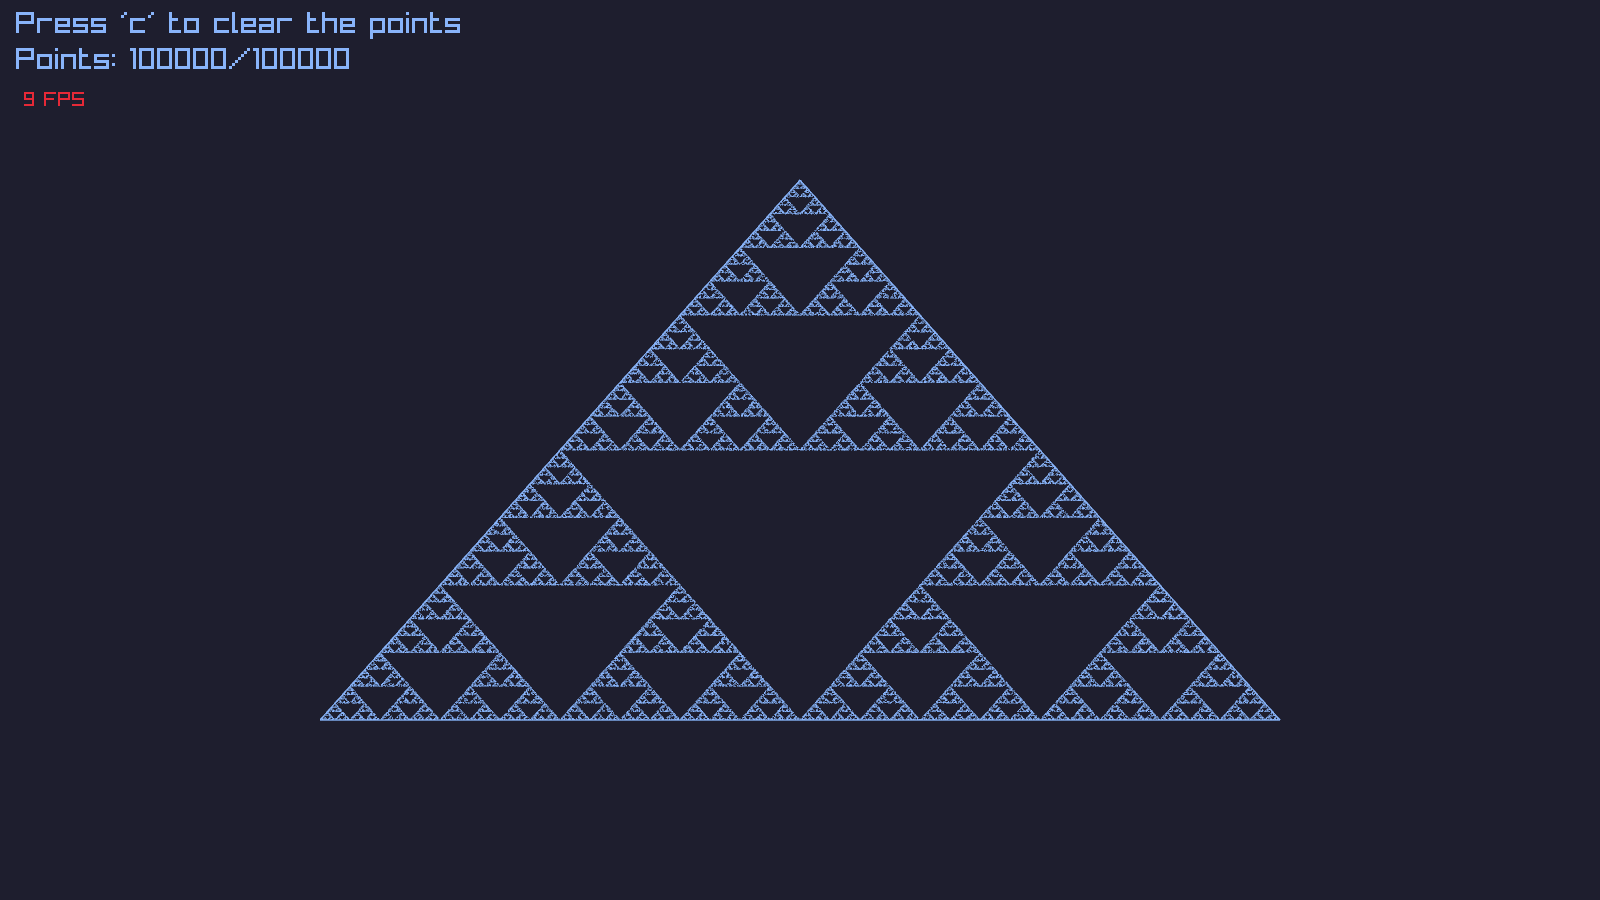
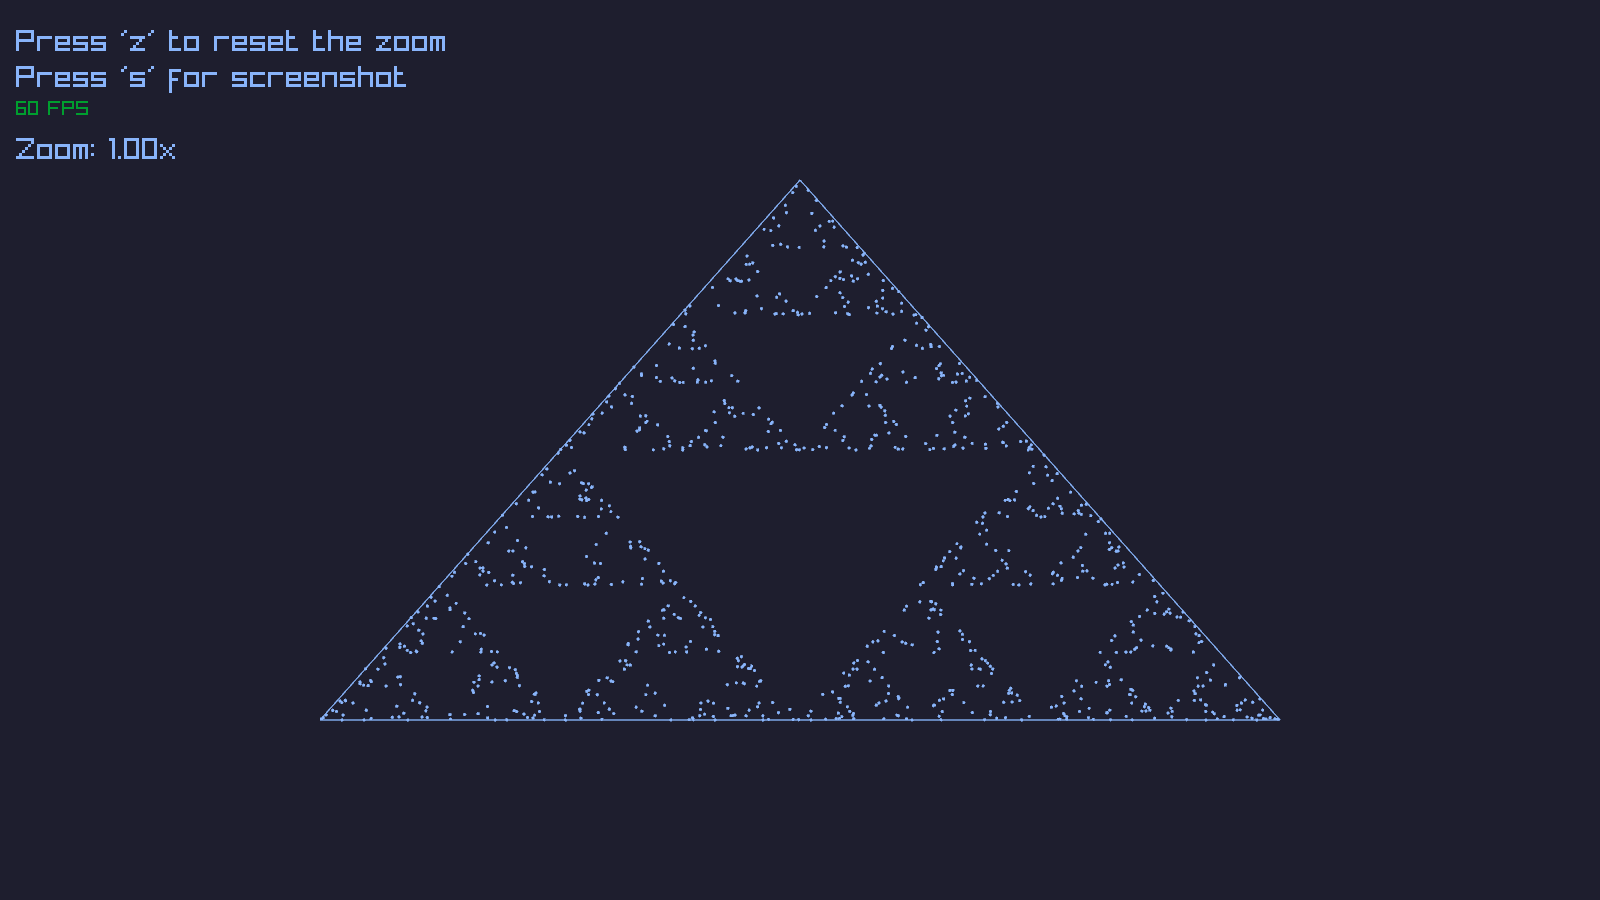
Don't store the points

Changed region(s): [[0.1875, 0.2178, 0.8125, 0.8089], [0.0, 0.0, 0.2812, 0.1244], [0.0, 0.1556, 0.125, 0.1867]]

diff --git a/main.c b/main.c
@@ -2,7 +2,6 @@
 #include <raymath.h>
 #include <time.h>
 
-#define MAX_POINTS 100000
 #define POINTS_PER_FRAME 1000
 
 int main(void) {
@@ -11,46 +10,81 @@ int main(void) {
     SetTargetFPS(60);
     SetRandomSeed(time(NULL));
 
+    Camera2D camera = {0};
+    camera.zoom = 1;
+
     const Color LIGHT_BLUE = GetColor(0x89b4faff);
     const Color CHARCOAL_GREY = GetColor(0x1e1e2eff);
 
     const int w = GetScreenWidth();
     const int h = GetScreenHeight();
 
+    // CCW
     const Vector2 p[] = {
-        {w * 0.5, h * 0.2},
-        {w * 0.2, h * 0.8},
-        {w * 0.8, h * 0.8}
+        {w * 0.5f, h * 0.2f},
+        {w * 0.2f, h * 0.8f},
+        {w * 0.8f, h * 0.8f}
     };
 
-    Vector2 vs[MAX_POINTS] = {0};
-    size_t vs_count = 0;
-
-    Vector2 v = p[0];
+    Vector2 point;
+    Vector2 seed = p[0];
 
     while(!WindowShouldClose()) {
-        if(vs_count < MAX_POINTS) {
-            for(size_t i = 0; i < POINTS_PER_FRAME; ++i) {
-                int p_index = GetRandomValue(0, 2);
-                v = Vector2Lerp(v, p[p_index], 0.5);
-                vs[vs_count++] = v;
-            }
+        if(IsMouseButtonDown(MOUSE_BUTTON_LEFT)) {
+            Vector2 delta = GetMouseDelta();
+            delta = Vector2Scale(delta, -1/camera.zoom);
+            camera.target = Vector2Add(camera.target, delta);
         }
 
-        BeginDrawing();
-        ClearBackground(CHARCOAL_GREY);
+        const float wheel = GetMouseWheelMove();
+        if(wheel != 0) {
+            Vector2 mouse_world_pos = GetScreenToWorld2D(GetMousePosition(), camera);
+            camera.offset = GetMousePosition();
+            camera.target = mouse_world_pos;
+            camera.zoom *= (1 + (wheel * 0.05f));
+            camera.zoom = Clamp(camera.zoom, 1, 30000);
+        }
 
-        DrawText("Press 'c' to clear the points", w * 0.01f, h * 0.01f, 30, LIGHT_BLUE);
-        DrawText(TextFormat("Points: %d/%d", vs_count, MAX_POINTS), w * 0.01f, h * 0.05f, 30, LIGHT_BLUE);
-        DrawFPS(w * 0.01f, h * 0.10f);
+        Vector2 top_left = GetScreenToWorld2D(CLITERAL(Vector2){0, 0}, camera);
+        Vector2 bottom_right = GetScreenToWorld2D(CLITERAL(Vector2){GetScreenWidth(), GetScreenHeight()}, camera);
 
-        if(IsKeyReleased(KEY_C)) vs_count = 0;
+        Rectangle view_area = {
+            top_left.x,
+            top_left.y,
+            bottom_right.x - top_left.x,
+            bottom_right.y - top_left.y
+        };
 
-        DrawTriangleLines(p[0], p[1], p[2], LIGHT_BLUE);
+        for(int i = 0; i < 100; ++i) seed = Vector2Lerp(seed, p[GetRandomValue(0, 2)], 0.5f);
 
-        for(size_t i = 0; i < vs_count; ++i) DrawCircleV(vs[i], 0.5, LIGHT_BLUE);
+        if(IsKeyDown(KEY_Z)) camera.zoom = 1;
+        if(IsKeyDown(KEY_S)) TakeScreenshot("screenshot.png");
 
-        EndDrawing();
+        BeginDrawing(); {
+            ClearBackground(CHARCOAL_GREY);
+
+            BeginMode2D(camera);
+            DrawTriangleLines(p[0], p[1], p[2], LIGHT_BLUE);
+            EndMode2D();
+
+            Vector2 ephemeral = seed;
+            size_t points_to_draw = (POINTS_PER_FRAME * camera.zoom);
+            points_to_draw = Clamp(points_to_draw, POINTS_PER_FRAME, 2000000);
+            for(size_t i = 0; i < points_to_draw; ++i) {
+                ephemeral = Vector2Lerp(ephemeral, p[GetRandomValue(0, 2)], 0.5f);
+                if(CheckCollisionPointRec(ephemeral, view_area)) {
+                    Vector2 screen_pos = GetWorldToScreen2D(ephemeral, camera);
+                    DrawCircleV(screen_pos, 1.5f, LIGHT_BLUE);
+                }
+            }
+
+            seed = ephemeral;
+
+            DrawText("Press 'z' to reset the zoom", w * 0.01f, h * 0.03f, 30, LIGHT_BLUE);
+            DrawText("Press 's' for screenshot", w * 0.01f, h * 0.07f, 30, LIGHT_BLUE);
+            DrawFPS(w * 0.01f, h * 0.11f);
+            DrawText(TextFormat("Zoom: %.2fx", camera.zoom), w * 0.01f, h * 0.15f, 30, LIGHT_BLUE);
+        } EndDrawing();
     }
 
     CloseWindow();
